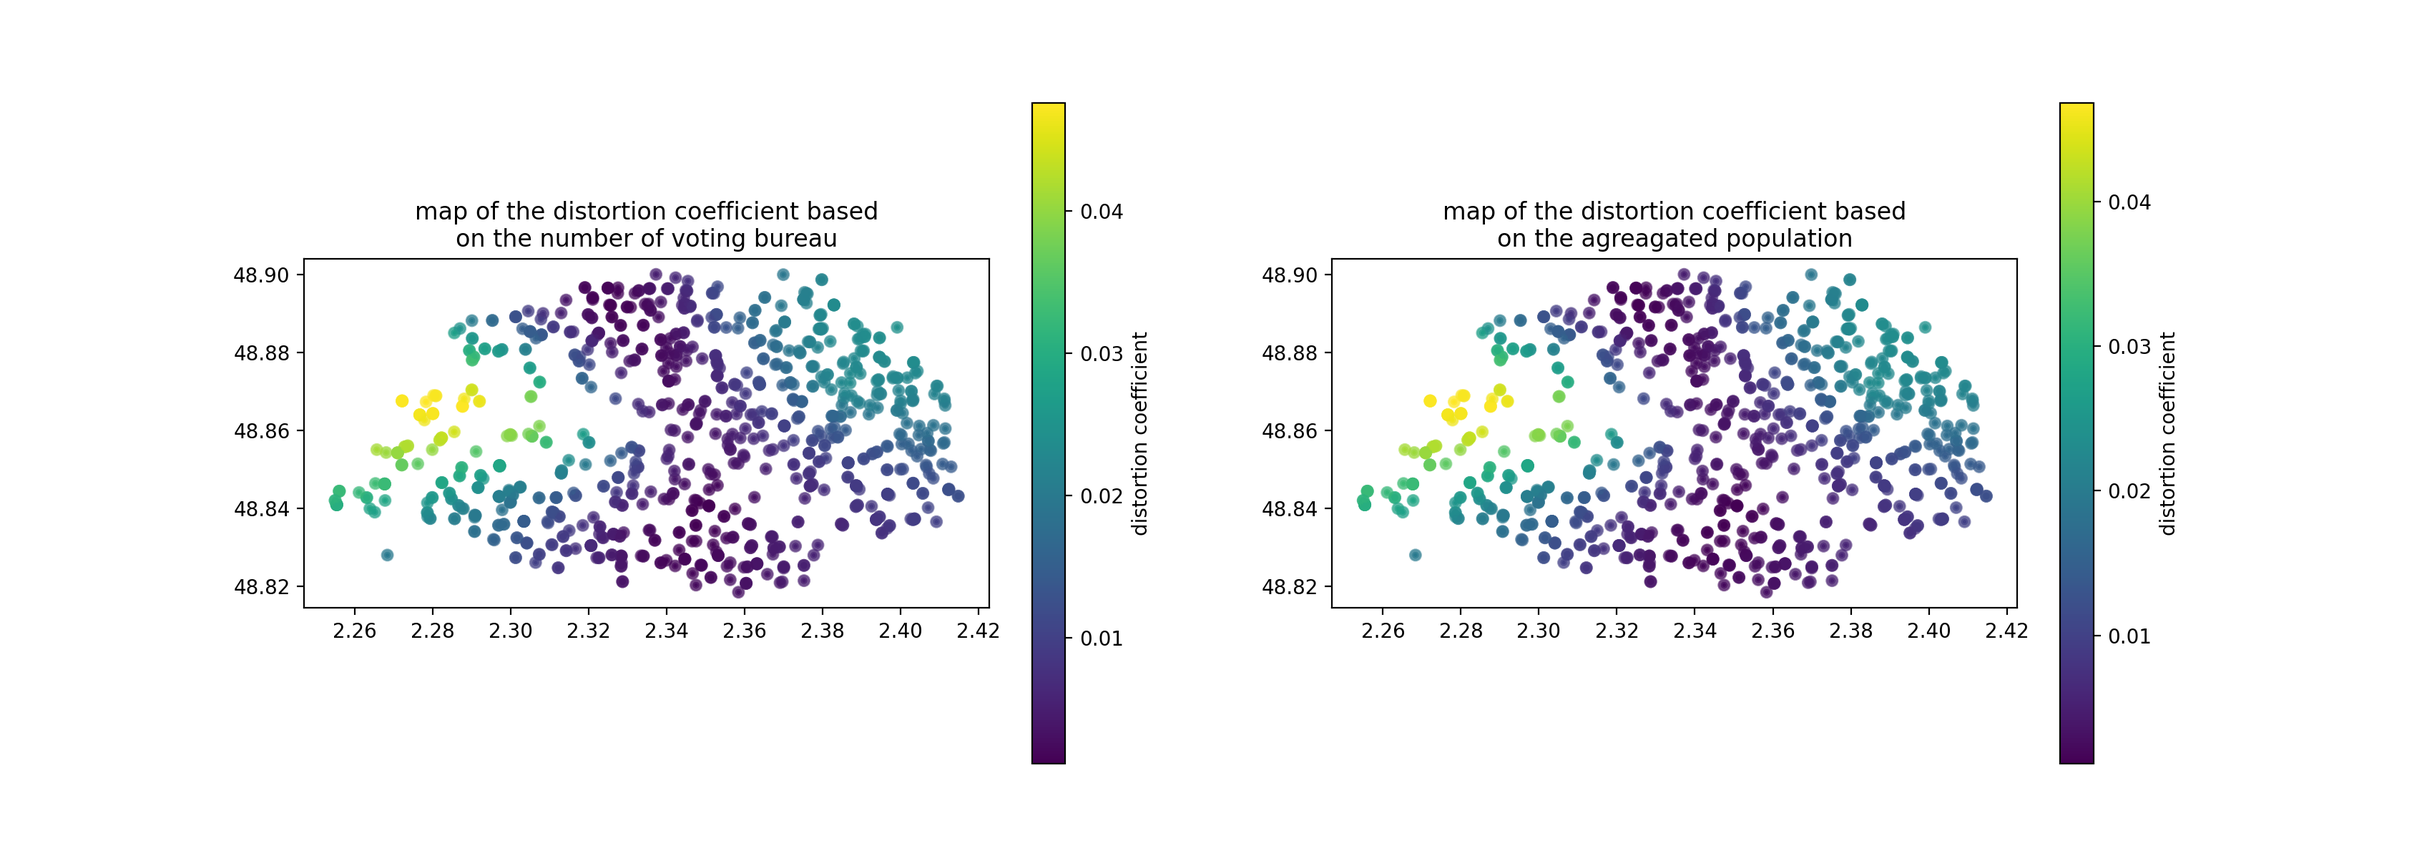
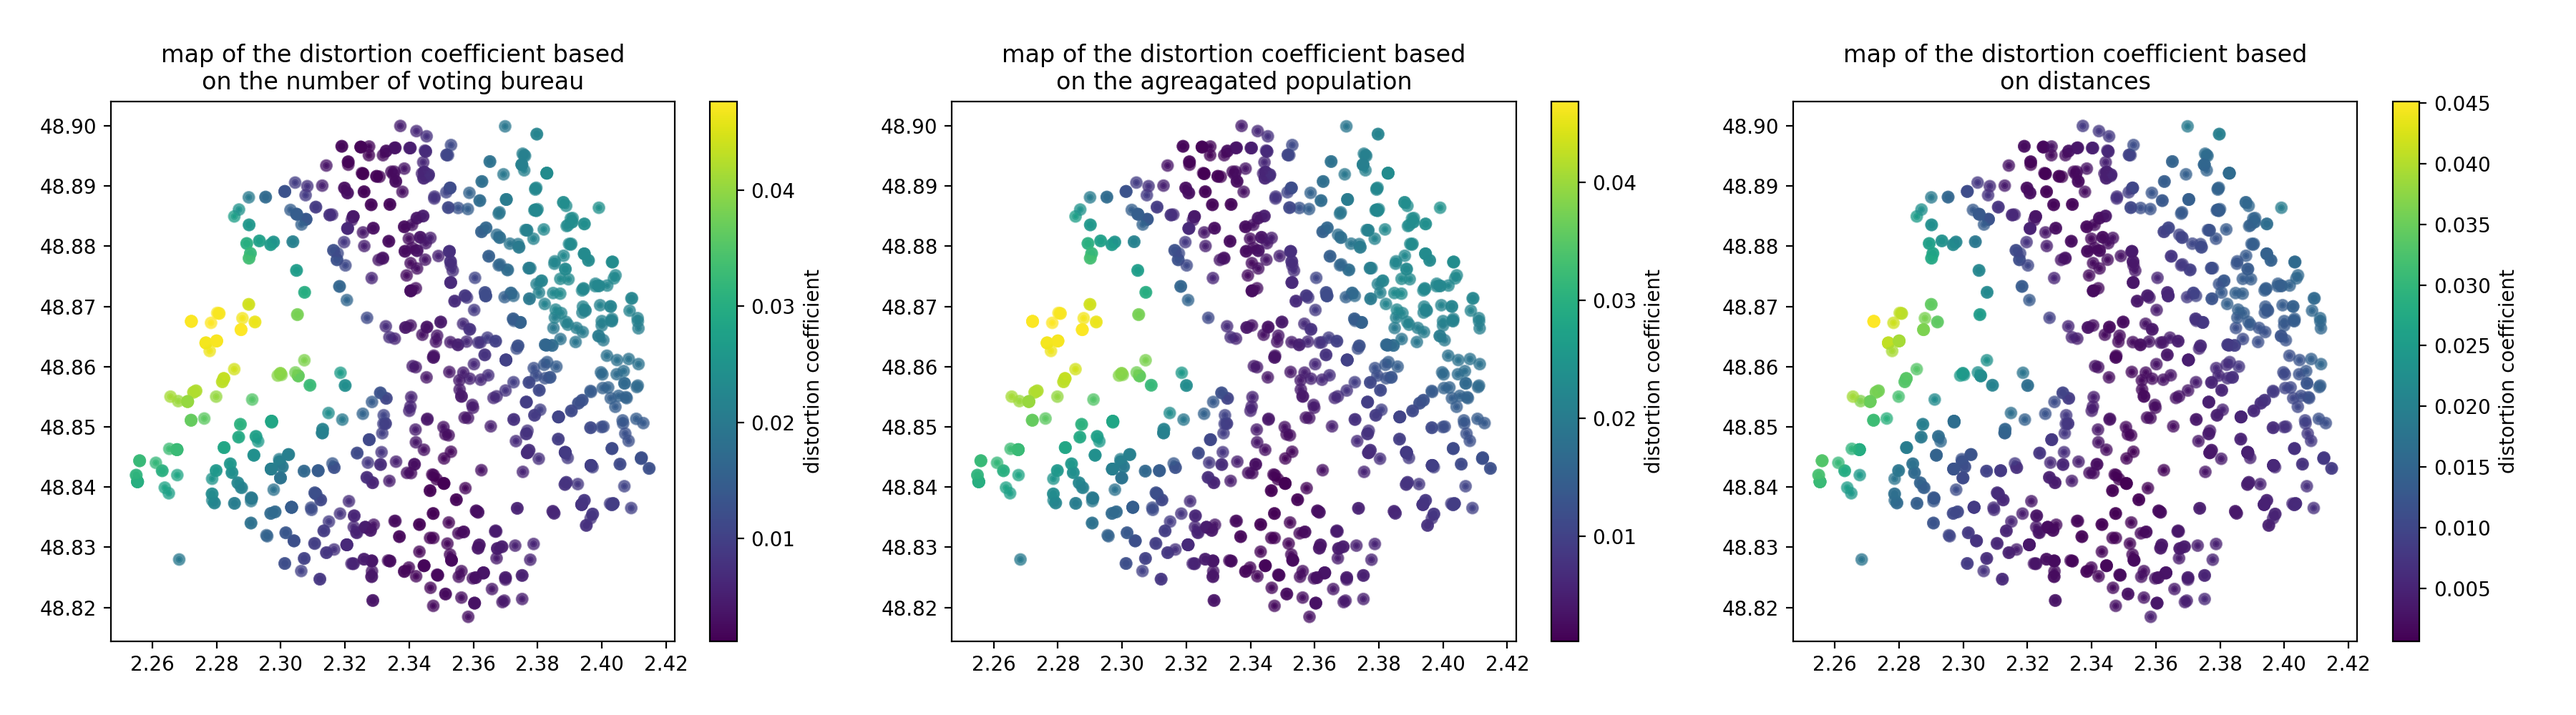
update

diff --git a/postprocessing/postprocessing_segregation.py b/postprocessing/postprocessing_segregation.py
@@ -130,7 +130,7 @@ with h5py.File(base_path + output_file, "r") as file:
 #########################################################
 
 
-fig, (ax1, ax2) = plt.subplots(1, 2, figsize=(17,6))
+fig, (ax1, ax2, ax3) = plt.subplots(1, 3, figsize=(18,5))
 
 
 ax1.scatter(longitude, latitude, c=dist_coef_idx, s=30, alpha=0.6)
@@ -139,7 +139,7 @@ pl = ax1.scatter(longitude, latitude, c=dist_coef_idx, s=1)
 
 cbar = fig.colorbar(pl, label="distortion coefficient")
 
-ax1.set_aspect('equal', adjustable='box')
+#ax1.set_aspect('equal', adjustable='box')
 ax1.set_title("map of the distortion coefficient based\non the number of voting bureau")
 
 """ -------------------------------------------------------
@@ -152,10 +152,24 @@ pl = ax2.scatter(longitude, latitude, c=dist_coef_pop, s=1)
 
 cbar = fig.colorbar(pl, label="distortion coefficient")
 
-ax2.set_aspect('equal', adjustable='box')
+#ax2.set_aspect('equal', adjustable='box')
 ax2.set_title("map of the distortion coefficient based\non the agreagated population")
 
+""" -------------------------------------------------------
+-----------------------------------------------------------
+------------------------------------------------------- """
 
+ax3.scatter(longitude, latitude, c=dist_coef_dist, s=30, alpha=0.6)
+ax3.scatter(longitude, latitude, c=dist_coef_dist, s=10, alpha=0.6)
+pl = ax3.scatter(longitude, latitude, c=dist_coef_dist, s=1)
+
+cbar = fig.colorbar(pl, label="distortion coefficient")
+
+#ax3.set_aspect('equal', adjustable='box')
+ax3.set_title("map of the distortion coefficient based\non distances")
+
+
+fig.tight_layout(pad=2.0)
 fig.savefig(base_path_figure + "map.png", dpi=200)
 
 
@@ -219,30 +233,36 @@ fig.savefig(base_path_figure + "vote_trajectory.png", dpi=200)
 #########################################################
 
 
-fig, (ax1, ax2) = plt.subplots(1, 2, figsize=(14,7))
+fig, ax = plt.subplots(1, 1, figsize=(7,7))
 
 
 for i in range(N_full_analyze):
-	ax1.plot(KL_div_traj[i], "-")
+	ax.plot(KL_div_traj[i], "-")
 
-ax1.set_title("KL-divergence trajectories")
-ax1.set_ylabel("KL-divergence")
-ax1.set_xlabel("number of voting bureau")
-ax1.set_ylim([0, 0.5])
-
-""" -------------------------------------------------------
------------------------------------------------------------
-------------------------------------------------------- """
-
-for i in range(N_full_analyze):
-	ax2.plot(convergence_thresholds, focal_distances[i], "-")
-
-ax2.yaxis.set_label_position("right")
-ax2.yaxis.tick_right()
-ax2.set_title("Focal-distance based on the number of voting bureau")
-ax2.set_ylabel("focal distance [number of voting bureau]")
-ax2.set_xlabel("convergence threshold")
-ax2.set_xlim([0, 0.5])
+ax.set_title("KL-divergence trajectories")
+ax.set_ylabel("KL-divergence")
+ax.set_xlabel("number of voting bureau")
+ax.set_ylim([0, 0.5])
 
 
 fig.savefig(base_path_figure + "KL-traj.png", dpi=200)
+
+
+#########################################################
+#########################################################
+#########################################################
+
+
+fig, ax = plt.subplots(1, 1, figsize=(7,7))
+
+
+for i in range(N_full_analyze):
+	ax.plot(convergence_thresholds, focal_distances[i], "-")
+
+ax.set_title("Focal-distance based on the number of voting bureau")
+ax.set_ylabel("focal distance [number of voting bureau]")
+ax.set_xlabel("convergence threshold")
+ax.set_xlim([0, 0.5])
+
+
+fig.savefig(base_path_figure + "focal_distances.png", dpi=200)
